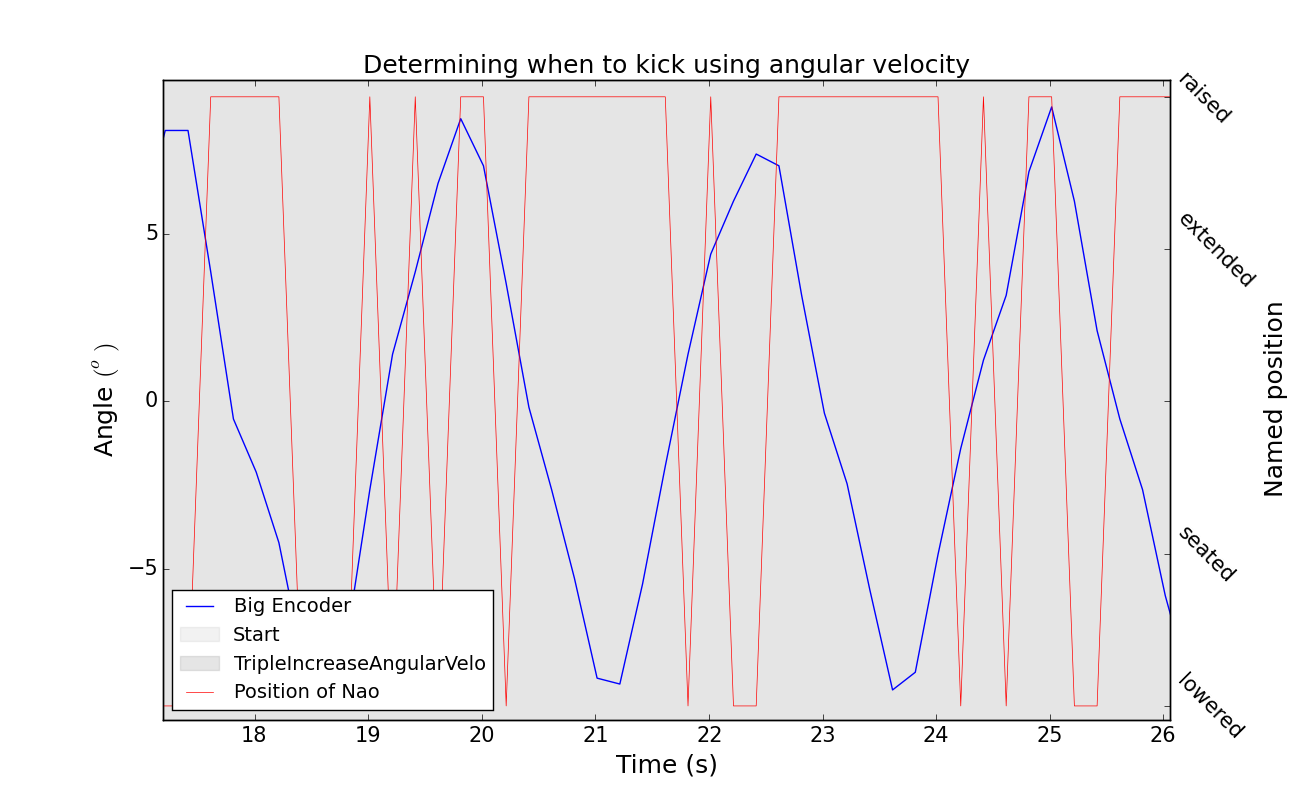
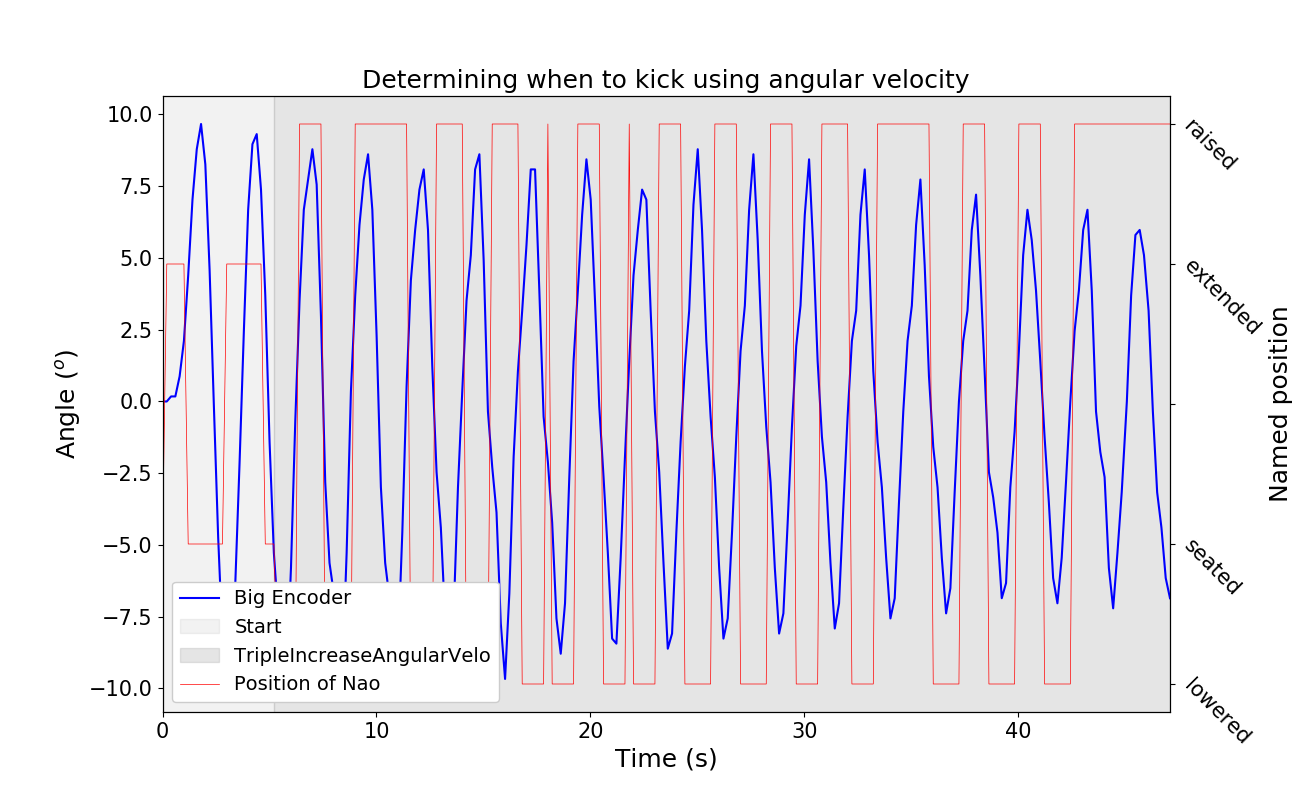
algorithm sort of works now (i think?)

diff --git a/Code/Triple_Pendulum/triple_increase_angular_velocity_parametric.py b/Code/Triple_Pendulum/triple_increase_angular_velocity_parametric.py
@@ -12,6 +12,7 @@ class TripleIncreaseAngularVelocity():
         self.previous_max_angle = total_angle(all_data['be'], all_data['se0'], all_data['se1']).max()
         self.previous_be = total_angle(values['be'], values['se0'], values['se1'])
         self.previous_av = values["av"]
+        self.already_passed_zero = False
     
 
     def algo(self, values, all_data):
@@ -22,37 +23,71 @@ class TripleIncreaseAngularVelocity():
         self.current_av = values["av"]
         print 'Time: {:.2f}'.format(values['time']), 'Total angle value: {:.2f}'.format(self.current_be)
         
-        if abs(self.previous_be) > abs(self.current_be): # Hit a maxima.
-	    if self.increasing:
-	        return ["lowered", 0.5] # This speed should be tested on the robot.
-	    
-	    else:
-	        return ["raised", 0.5]
-	
-	    self.previous_max_angle = self.previous_be
-	    print("max_angle", self.previous_be)
-	
-        elif abs(self.previous_av) > abs(self.current_av): # Hit a zero.
-	    if self.increasing:
-	        return ["raised", 0.5]
-	    
-	    else:
-	        return ["lowered", 0.5]
+        #if abs(self.current_av) <= abs(self.previous_av) and not self.already_passed_zero:
+        if sign_zero(self.current_av) != sign_zero(self.previous_av) and not self.already_passed_zero:
+            #print("AVs:", self.previous_av, self.current_av, "time:", values['time'], "raise")
+            self.previous_be = self.current_be
+            self.previous_av = self.current_av
+            self.already_passed_zero = True # Already past minima, don't send the signal again.
+
+            if self.increasing:
+                print "raise"
+                return ["raised", 0.5]
+            else:
+                return ["lowered", 0.5]
         
-        self.previous_be = self.current_be
-        self.previous_av = self.current_av
-        
+        # if(sign_zero(self.previous_be)==-1 and self.previous_be - self.current_be <0):
+        #     self.already_passed_minima = False # Moving back down.
+        #     self.previous_be = self.current_be
+        #     self.previous_av = self.current_av
+
+        #     self.previous_max_angle = self.previous_be
+        #     print('max_angle', self.previous_be)
+            
+        #     if(self.increasing == True):
+        #         return ['raised', 0.5]
+        #     elif(self.increasing == False):
+        #         return ['lowered', 0.5]
+            
+        # elif(sign_zero(self.previous_be)==1 and self.previous_be - self.current_be >0):
+        #     self.already_passed_minima = False # Moving back down.
+        #     self.previous_be = self.current_be
+        #     self.previous_av = self.current_av
+            
+        #     self.previous_max_angle = self.previous_be
+        #     print('max_angle', self.previous_be)
+            
+        #     if(self.increasing == True):
+        #         return ['raised', 0.5]
+        #     elif(self.increasing == False):
+        #         return ['lowered', 0.5]
+
+        if abs(self.previous_be) >= abs(self.current_be):
+            #print("BEs:", self.previous_be, self.current_be, "time", values['time'], "lower")
+            self.already_passed_zero = False # Moving back down.
+            self.previous_be = self.current_be
+            self.previous_av = self.current_av
+            
+            self.previous_max_angle = self.previous_be
+            print('max_angle', self.previous_be)
+            
+            if self.increasing:
+                print "lower"
+                return ['lowered', 0.5]
+            else:
+                return ['raised', 0.5]
+            
         # switch conditions
         if self.increasing:
             if abs(self.current_be) > self.max_angle:
                 return 'switch'
-	      
+
         else:
             print 'Decrease', values['time']
-            
+
             if abs(self.previous_max_angle) < self.min_angle:
                 return 'switch'
-	      
+
         if values['time'] - self.start_time > self.duration:
             return 'switch'
         

diff --git a/Code/Algorithms/algorithm_triple_angular_parametric.py b/Code/Algorithms/algorithm_triple_angular_parametric.py
@@ -6,7 +6,7 @@ path.insert(0, 'Single_Pendulum')
 path.insert(0, 'Triple_Pendulum')
 
 from triple_startup_const_period import Start
-from triple_increase_angular_velocity_parametric_2 import TripleIncreaseAngularVelocity
+from triple_increase_angular_velocity_parametric import TripleIncreaseAngularVelocity
 
 
 
